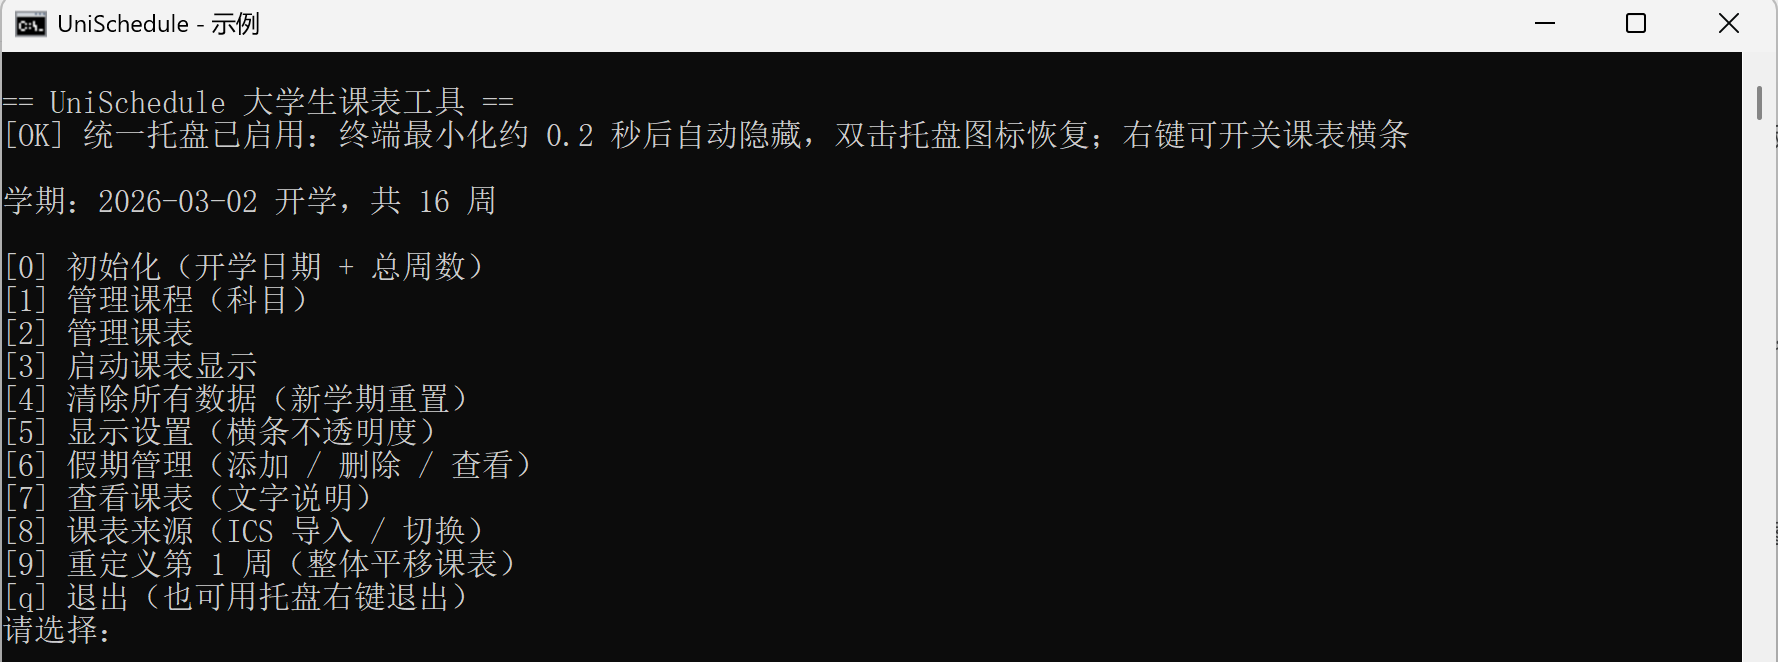
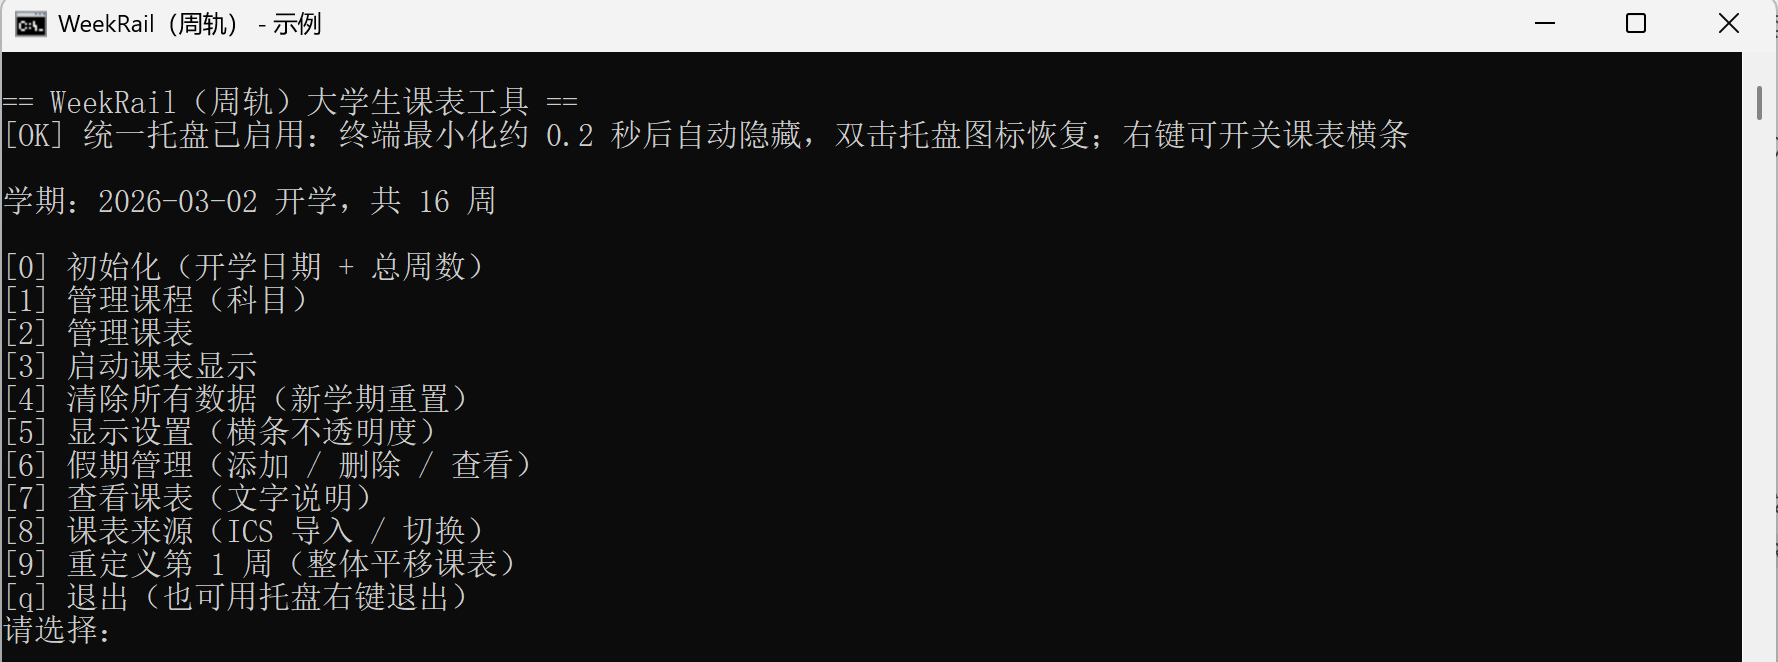
Brand: rename UniSchedule to WeekRail

Changed region(s): [[0.0309, 0.1208, 0.3093, 0.1813], [0.0309, 0.0, 0.1856, 0.0604]]

diff --git a/display.py b/display.py
@@ -79,7 +79,7 @@ class _RECT(ctypes.Structure):
 # 每 STATE_CHECK_TICKS 拍比一次（4 个 stat ≈ 30 微秒）。
 STATE_CHECK_TICKS = 15
 DATA_FILES = ("config.json", "subjects.json", "lessons.json", "prefs.json", "holidays.json")
-_DEBUG = os.environ.get("UNISCHEDULE_DEBUG") == "1"
+_DEBUG = os.environ.get("WEEKRAIL_DEBUG") == "1"
 
 try:
     _user32 = ctypes.windll.user32
@@ -122,7 +122,7 @@ def _open_parent_watch():
     global _parent_handle
     if _kernel32 is None:
         return False
-    raw = os.environ.get("UNISCHEDULE_PARENT_PID")
+    raw = os.environ.get("WEEKRAIL_PARENT_PID")
     if not raw:
         return False
     try:
@@ -145,7 +145,7 @@ def _pct(prefs, key, default):
 
 
 def _log(message):
-    """调试输出：设环境变量 UNISCHEDULE_DEBUG=1 时打印到 stdout。"""
+    """调试输出：设环境变量 WEEKRAIL_DEBUG=1 时打印到 stdout。"""
     if _DEBUG:
         print(message, flush=True)
 
@@ -226,7 +226,7 @@ class Bar(QWidget):
         self._date_ord = today.toordinal()
         self._data_stamp = _data_stamp()
         self._tick_count = 0
-        self.setWindowTitle("UniSchedule")
+        self.setWindowTitle("WeekRail")
         self.setWindowFlags(Qt.FramelessWindowHint | Qt.WindowStaysOnTopHint | Qt.Tool)
         self.setAttribute(Qt.WA_TranslucentBackground, True)
         self._apply_opacity()
@@ -537,7 +537,7 @@ def _load_preview_font():
 
 
 def main():
-    parser = argparse.ArgumentParser(description="UniSchedule 课表横条")
+    parser = argparse.ArgumentParser(description="WeekRail（周轨）课表横条")
     parser.add_argument("--date", help="模拟日期 YYYY-MM-DD（调试用）")
     parser.add_argument("--render", help="渲染成 PNG 后退出（预览/调试用）")
     parser.add_argument("--render-width", type=int, default=1880, help="--render 时的横条宽度")

diff --git a/launcher.py b/launcher.py
@@ -1,5 +1,5 @@
 # -*- coding: utf-8 -*-
-"""UniSchedule 统一启动器：终端菜单循环，执行完一项回到菜单，不退出。
+"""WeekRail 统一启动器：终端菜单循环，执行完一项回到菜单，不退出。
 
 窗口行为：
 - 启动时创建统一托盘图标（唯一系统托盘入口，复用 icon.ico）。
@@ -120,7 +120,7 @@ def _start_display(sim=None, ask=True):
     # display 用"父进程 PID + 等待句柄"判断 launcher 是否还活着。
     # 旧写法用 DuplicateHandle 传继承句柄，但 Python 的 subprocess 默认 close_fds=True，
     # 子进程拿不到那个句柄，看门狗其实一直没生效。
-    env_display = dict(os.environ, UNISCHEDULE_PARENT_PID=str(os.getpid()))
+    env_display = dict(os.environ, WEEKRAIL_PARENT_PID=str(os.getpid()))
     with _proc_lock:
         _display_proc = subprocess.Popen(args, env=env_display)
     tray_win.refresh_menu()  # 重建原生菜单，托盘文案立即反映"关闭课表横条"
@@ -247,7 +247,7 @@ def main(argv=None):
         return 0
     auto = any(a in ("--auto", "-a", "--auto-display") for a in argv)
     no_minimize = "--no-minimize" in argv
-    print("== UniSchedule 大学生课表工具 ==")
+    print("== WeekRail（周轨）大学生课表工具 ==")
     ok = tray_win.start(on_quit_request=_request_quit,
                         state_getter=_display_alive,
                         can_auto_start=_can_auto_start)
@@ -363,7 +363,7 @@ def _drain_events():
 
 
 def _request_quit():
-    """托盘「退出 UniSchedule」回调。"""
+    """托盘「退出 WeekRail」回调。"""
     _quit_requested.set()
 
 

diff --git a/tray_win.py b/tray_win.py
@@ -1,5 +1,5 @@
 # -*- coding: utf-8 -*-
-"""UniSchedule 统一托盘（唯一系统托盘图标，管理终端 + 课表横条）。
+"""WeekRail 统一托盘（唯一系统托盘图标，管理终端 + 课表横条）。
 
 线程模型（关键设计，勿破坏）：
 - pystray 菜单点击回调运行在它自己的消息循环线程里，
@@ -16,7 +16,7 @@
    - 隐藏到托盘：手动隐藏终端
    - 启动/关闭课表横条：文字由 state_getter 实时求值；
      点击后只发事件给主线程处理（可能需要终端输入模拟日期）
-   - 退出 UniSchedule：发退出事件，launcher 统一善后
+   - 退出 WeekRail：发退出事件，launcher 统一善后
 3. 动态菜单文案用「可调用标签」（每次弹出菜单实时计算），
    不依赖 update_menu 刷新（Win32 后端对已建项的文字赋值不生效）。
 
@@ -214,9 +214,9 @@ def start(on_quit_request=None, state_getter=None, can_auto_start=None):
             Menu.SEPARATOR,
             MenuItem(_bar_label, _cb_toggle_display),
             Menu.SEPARATOR,
-            MenuItem("退出 UniSchedule", _cb_quit),
+            MenuItem("退出 WeekRail", _cb_quit),
         )
-        _icon = Icon("UniSchedule", _load_image(), "UniSchedule", menu)
+        _icon = Icon("WeekRail", _load_image(), "WeekRail · 周轨", menu)
         _icon.run_detached()
     except Exception:
         _icon = None

diff --git a/ics_import.py b/ics_import.py
@@ -1,5 +1,5 @@
 # -*- coding: utf-8 -*-
-"""把 .ics 课表（BitUp 导出格式）转换成 UniSchedule 的科目 / 课表条目。
+"""把 .ics 课表（BitUp 导出格式）转换成 WeekRail 的科目 / 课表条目。
 
 流程：
 1. 展开 ICS 折行，解析 VEVENT（SUMMARY / DTSTART / DTEND / DESCRIPTION）；

diff --git a/make_icon.py b/make_icon.py
@@ -1,5 +1,5 @@
 # -*- coding: utf-8 -*-
-"""UniSchedule 图标生成：蓝白清爽 + 课表横条方案。
+"""WeekRail 图标生成：蓝白清爽 + 课表横条方案。
 
 输出：icon.ico（16/24/32/48/64/128/256 多尺寸）+ icon_preview.png（预览）。
 想调样式改下方常量后重跑即可。

diff --git a/storage.py b/storage.py
@@ -1,5 +1,5 @@
 # -*- coding: utf-8 -*-
-"""UniSchedule 公共数据层：JSON 读写、范围解析、周次计算。"""
+"""WeekRail 公共数据层：JSON 读写、范围解析、周次计算。"""
 import json
 from datetime import date
 from pathlib import Path

diff --git a/README.md b/README.md
@@ -1,6 +1,6 @@
-# UniSchedule 大学生课表工具
+# WeekRail（周轨）大学生课表工具
 
-Windows 桌面课表横条：置顶显示当天课程，按大学周次排课，支持假期、文字课表、ICS 导入与多套课表来源切换。
+Windows 桌面课表横条：置顶显示当天课程（支持鼠标穿透降低不透明度），按大学周次排课，支持假期、文字课表、ICS 导入与多套课表来源切换。
 
 ![课表横条预览](docs/bar-preview.png)
 
@@ -100,6 +100,7 @@ Windows 桌面课表横条：置顶显示当天课程，按大学周次排课，
 
 ![显示设置](docs/terminal-settings.png)
 
+如果认为正常显示/鼠标穿透的课表不透明度过高，挡住了后面的内容，即可通过此设置调节。
 ### [6] 假期管理
 
 添加 / 删除 / 查看假期段；整天没课的日期会自动显示「今日假期」。
@@ -144,9 +145,13 @@ Windows 桌面课表横条：置顶显示当天课程，按大学周次排课，
 
 ### [9] 重定义第 1 周
 
-把第 1 周改到另一个周一（只接受周一），当前来源的课表周次会整体平移；开学前的周显示为 `第-1周`、`第-2周`、`第-3周`……导入 ICS 时也会询问。
+把第 1 周的定义改到另一个周一（只接受周一），当前来源的课表周次会整体平移（仅重定义当周的周次，不改动所有日期与课表的对应关系）；开学前的周显示为 `第-1周`、`第-2周`、`第-3周`……导入 ICS 时也会询问。
 
 ![重定义第 1 周](docs/terminal-week1.png)
+
+>说明：不同 App 导出的 ics 对第 1 周的定义不同，学校课表口径下的第 `X` 周可能在部分 ics 设置下，显示为第 `X+offset` 周，原因是定义了不同的开学日期；此时可通过此功能进行调节，输入学校课表口径下的第 1 周周一日期，即可将课表周次口径与学校课表口径对齐。
+
+>举例：学校课表口径下，开学日期为 2026-09-21，部分课表 ics 口径下，开学日期为 2026-08-31，导致学校课表中第9周在部分课表下显示为第12周，此时在此功能下，输入 2026-09-21，即可统一到学校课表口径，在此日期前的周次会显示为负周次。
 
 ## 节次时间表
 
@@ -163,7 +168,7 @@ ICS 里的时间通过根目录 **`period_times.json`** 换算成节次。默认
 
 - 横条贴在屏幕顶部、始终置顶、鼠标穿透；鼠标移到上面会按 `[5]` 的设置变淡。
 - 放假（手动假期或当天整天没课）时不显示 13 节，显示绿色「今日假期」。
-- 托盘图标右键：显示 / 隐藏主窗口、启动 / 关闭课表横条、退出 UniSchedule。终端最小化约 0.2 秒后自动隐藏。
+- 托盘图标右键：显示 / 隐藏主窗口、启动 / 关闭课表横条、退出 WeekRail。终端最小化约 0.2 秒后自动隐藏。
 - 开机自启：`Win + R` 输入 `shell:startup`，把 `autostart.bat` 的快捷方式放进打开的文件夹。
 
 ## 依赖
@@ -202,7 +207,7 @@ ICS 里的时间通过根目录 **`period_times.json`** 换算成节次。默认
 ## 目录结构
 
 ```text
-UniSchedule/
+WeekRail/
 ├── launcher.bat / autostart.bat   启动（含经典 conhost 单窗口）
 ├── launcher.py                   终端菜单循环
 ├── display.py                    课表横条（PySide6）
